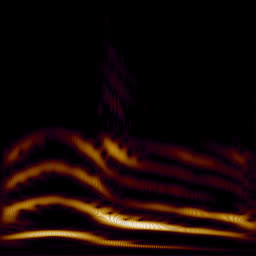
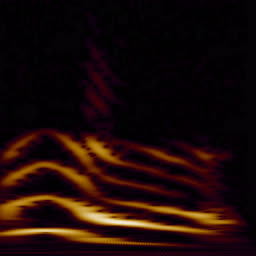
CWT markers

Changed region(s): [[0.0, 0.5, 1.0, 1.0], [0.3125, 0.1875, 0.5, 0.4688]]

diff --git a/xcorr/index.js b/xcorr/index.js
@@ -1,0 +1,186 @@
+let args = new URLSearchParams(location.search.slice(1));
+let arg_ss = +args.get('ss') || 0; // similar to ffmpeg
+let arg_to = +args.get('to') || 0; // similar to ffmpeg
+let arg_sr = +args.get('sr') || 12;
+
+let sampleRate = arg_sr * 1024;
+let iframe, iframe_reqs = {}, iframe_tx_id = 0;
+
+function dcheck(x) {
+  if (x) return;
+  debugger;
+  throw new Error('DCHECK failed: ' + x);
+}
+
+let mix = (a, b, x) => a * (1 - x) + b * x;
+let sleep = dt => new Promise(resolve => setTimeout(resolve, dt));
+
+function init() {
+  iframe = document.querySelector('iframe');
+  let canvas = document.querySelector('canvas');
+
+  canvas.onclick = async () => {
+    let file = await selectAudioFile();
+    document.title = file.name;
+    console.log('decoding audio at', sampleRate, 'Hz');
+    let audio = await decodeAudioFile(file);
+    console.log('audio:', audio.length, 'samples');
+
+    let fft_size = canvas.height;
+    let num_frames = canvas.width;
+
+    console.log('Computing FFT image...');
+    let fft_data = await computeFFT(audio, fft_size, num_frames);
+    drawFFT(canvas, fft_data, { log_scale: 3 });
+    await sleep(0);
+
+    console.log('Computing xcorr FFT image...');
+    let xcorr_data = await computeXCorr(fft_data, fft_size, num_frames);
+    drawFFT(canvas, xcorr_data, { log_scale: 3 });
+
+    console.log('Done');
+  };
+
+  // canvas.onmousemove = e =>
+  //   document.title = (e.clientX / canvas.clientWidth * canvas.width | 0) +
+  //   ':' + ((1 - e.clientY / canvas.clientHeight) * canvas.height | 0);
+}
+
+async function computeXCorr(fft_data, fft_size, num_frames,
+  { progress_dt = 1000 } = {}) {
+
+  dcheck(fft_data.length == fft_size * num_frames);
+  let xcorr_data = new Float32Array(num_frames ** 2);
+  let ts = Date.now();
+
+  for (let t1 = 0; t1 < num_frames; t1++) {
+    for (let t2 = 0; t2 < num_frames; t2++) {
+      let f1 = fft_data.subarray(t1 * fft_size, (t1 + 1) * fft_size);
+      let f2 = fft_data.subarray(t2 * fft_size, (t2 + 1) * fft_size);
+      dcheck(f1.length == fft_size && f2.length == fft_size);
+      let sum = f1.reduce((s, _, i) => s + (f1[i] * f2[i]) ** 0.5, 0);
+      xcorr_data[t1 * num_frames + t2] = sum;
+    }
+
+    if (progress_dt > 0 && Date.now() > ts + progress_dt) {
+      console.log('Progress:', t1 / num_frames * 100 | 0, '%');
+      ts = Date.now();
+      await sleep(0);
+    }
+  }
+
+  return xcorr_data;
+}
+
+function drawFFT(canvas, fft, { log_scale = 0 } = {}) {
+  let h = canvas.height;
+  let w = canvas.width;
+  let ctx = canvas.getContext('2d');
+  let img = ctx.getImageData(0, 0, w, h);
+  let max = fft.reduce((s, x) => Math.max(s, Math.abs(x)), 0);
+
+  if (fft.length != w * h)
+    throw new Error('Invalid image size');
+
+  for (let y = 0; y < h; y++) {
+    for (let x = 0; x < w; x++) {
+      let d = img.data;
+      let i = (y * w + x) * 4;
+      let a = fft[x * h + h - 1 - y] / max;
+      let s = log_scale > 0 ?
+        1 + Math.log10(Math.abs(a)) / log_scale : Math.abs(a);
+      d[i + 0] = (1 - s) * 256;
+      d[i + 1] = (1 - s) * 256;
+      d[i + 2] = (1 - s) * 256;
+      d[i + 3] = 255;
+    }
+  }
+
+  ctx.putImageData(img, 0, 0);
+}
+
+async function computeFFT(audio, fft_size, num_frames) {
+  let fft_data = new Float32Array(num_frames * fft_size);
+
+  await aggregateFFT(audio, fft_size, num_frames, (fft_resp, t) => {
+    for (let k = 0; k < fft_size; k++)
+      fft_data[t * fft_size + k] = fft_resp.abs[k] ** 2;
+  });
+
+  return fft_data;
+}
+
+async function aggregateFFT(audio, fft_size, num_frames, fn) {
+  console.log('fft frame:', fft_size, 'bins;',
+    sampleRate / fft_size, 'Hz/bin',
+    num_frames, 'frames');
+
+  let frame = new Float32Array(fft_size);
+  let frame_step = audio.length / num_frames | 0;
+
+  for (let i = 0; i < num_frames; i++) {
+    frame.fill(0);
+    frame.set(
+      audio.subarray(
+        i * frame_step,
+        Math.min(audio.length, i * frame_step + frame.length)));
+    for (let x = 0; x < frame.length; x++)
+      frame[x] *= Math.sin(x / frame.length * Math.PI) ** 2;
+    let fft_resp = await requestFFT(frame);
+    fn(fft_resp, i);
+  }
+}
+
+function requestFFT(data) {
+  let tx = iframe_tx_id++;
+  iframe.contentWindow.postMessage(
+    { tx, fn: 'fft', arg: { re: data } }, '*');
+  return new Promise((resolve, reject) => {
+    iframe_reqs[tx] = { resolve, reject };
+  });
+}
+
+async function selectAudioFile() {
+  let input = document.createElement('input');
+  input.type = 'file';
+  input.accept = 'audio/mpeg; audio/wav; audio/webm';
+  input.click();
+
+  let file = await new Promise((resolve, reject) => {
+    input.onchange = () => {
+      let files = input.files || [];
+      resolve(files[0] || null);
+    };
+  });
+
+  return file;
+}
+
+async function decodeAudioFile(file) {
+  let encodedAudio = await file.arrayBuffer();
+  let audioCtx = new AudioContext({ sampleRate });
+  let audioBuffer = await audioCtx.decodeAudioData(encodedAudio);
+  let channel_data = audioBuffer.getChannelData(0);
+
+  console.log(`Copying audio from ${arg_ss}s to ${arg_to}s`);
+  let frame_ss = arg_ss * sampleRate | 0;
+  let frame_to = arg_to * sampleRate | 0;
+
+  frame_to = frame_to || channel_data.length;
+
+  return new Float32Array(channel_data.slice(frame_ss, frame_to));
+}
+
+window.onload = () => init();
+
+window.onmessage = (event) => {
+  let resp = event.data;
+  let tx = resp.tx;
+  let p = iframe_reqs[tx];
+  if (resp.err) {
+    p.reject(resp.err);
+  } else {
+    p.resolve(resp.res);
+  }
+  delete iframe_reqs[tx];
+};

diff --git a/cwt/index.js b/cwt/index.js
@@ -27,6 +27,8 @@ const DEFAULT_CONFIG = `
   const int FB_H = 256;
   const int IMG_W = 1024;
   const int IMG_H = 1024;
+  const int FREQ_MARKERS = 10;
+  const int TIME_MARKERS = 10;
   const float PI = radians(180.0);
 
   vec2 wavelet(float ts, float freq_hz) {
@@ -66,7 +68,9 @@ const FB_W = conf.get('FB_W', 1, 4096);
 const FB_H = conf.get('FB_H', 1, 4096);
 const IMG_W = conf.get('IMG_W', 1, 4096);
 const IMG_H = conf.get('IMG_H', 1, 4096);
-const MAX_WAVEFORM_LEN = FB_W * FB_H; // FFT wraps around
+const FREQ_MARKERS = conf.get('FREQ_MARKERS', 0, 100);
+const TIME_MARKERS = conf.get('TIME_MARKERS', 0, 100);
+const MAX_WAVEFORM_LEN = FB_W * FB_H;
 const WAVELET_SHADER = conf.get();
 
 const $ = s => document.querySelector(s);
@@ -117,9 +121,12 @@ function updateConfig() {
   location.search = '?conf=' + encodeURIComponent(textarea.value);
 }
 
-async function initGPU() {
+async function initRenderer() {
   if (audio_ctx) return;
   audio_ctx = new AudioContext({ sampleRate: SAMPLE_RATE });
+
+  addFreqMarkers();
+  addTimeMarkers();
 
   canvas.width = IMG_W;
   canvas.height = IMG_H;
@@ -243,9 +250,11 @@ async function renderSpectrogram() {
   btn_render.style.display = 'none';
   btn_config.style.display = 'none';
   btn_abort.style.display = '';
-  await initGPU();
 
   let file = await openAudioFile();
+
+  await initRenderer();
+
   let buffer = await file.arrayBuffer();
   let waveform = await decodeAudioData(buffer);
 
@@ -303,6 +312,33 @@ async function renderSpectrogram() {
   btn_render.style.display = '';
   btn_config.style.display = '';
   btn_abort.style.display = 'none';
+}
+
+function addFreqMarkers(count = FREQ_MARKERS) {
+  for (let i = 1; i < count; i++) {
+    let freq_hz = mix(FREQ_MIN, FREQ_MAX, i / count);
+    let el = document.createElement('div');
+    el.className = 'mark-v';
+    el.style.top = ((1 - i / count) * 100).toFixed(1) + '%';
+    el.style.left = '0';
+    el.textContent = freq_hz.toFixed(0) + 'Hz';
+    document.body.appendChild(el);
+  }
+}
+
+function addTimeMarkers(count = TIME_MARKERS) {
+  let ts_min = TIME_MIN;
+  let ts_max = Math.min(TIME_MAX, ts_min + MAX_WAVEFORM_LEN / SAMPLE_RATE);
+
+  for (let i = 1; i < count; i++) {
+    let time_sec = mix(ts_min, ts_max, i / count);
+    let el = document.createElement('div');
+    el.className = 'mark-h';
+    el.style.left = ((i / count) * 100).toFixed(1) + '%';
+    el.style.bottom = '0';
+    el.textContent = time_sec.toFixed(2) + 's';
+    document.body.appendChild(el);
+  }
 }
 
 async function openAudioFile() {

diff --git a/glsl/acf-visualizer.js b/glsl/acf-visualizer.js
@@ -210,7 +210,7 @@ class GpuACF {
 
         const float N = float(${fft_size});
         const float SR = float(${vargs.SAMPLE_RATE});
-        const float A0 = float(${vargs.A4_FREQ / 2 ** 4});
+        const float RED_HZ = float(${vargs.A4_FREQ * 2 ** (4 / 12)});
 
         ${shaderUtils}
 
@@ -233,8 +233,8 @@ class GpuACF {
         void main() {
           float f = vTex.y * N - 0.5;
           float freq_hz = SR / N * (${!!vargs.USE_DCT} ? 0.5 * f : min(f, N - f));
-          float pitch = fract(log2(freq_hz / A0));
-          float val = hann_step(freq_hz / A0, 0.0, float(${vargs.ACF_MUTE_RANGE}));
+          float pitch = fract(log2(freq_hz / RED_HZ));
+          float val = hann_step(freq_hz / RED_HZ, 0.0, float(${vargs.ACF_MUTE_RANGE}));
           vec3 rgb = hann_hsv2rgb(vec3(pitch, 1.0, val));
 
           v_FragColor = texture(uFFT, vTex).x * vec4(rgb, 0.0);

diff --git a/cwt/styles.css b/cwt/styles.css
@@ -4,6 +4,7 @@ html, body {
   padding: 0;
   margin: 0;
   background: #010101;
+  font-family: monospace;
 }
 
 body {
@@ -72,6 +73,26 @@ button#update {
   position: fixed;
   right: 0;
   bottom: 0;
+}
+
+.mark-v {
+  position: fixed;
+  z-index: 1;
+  border-top: 1px solid #080;
+  color: #080;
+  padding-top: 0.5em;
+  padding-left: 0.5em;
+  font-size: 0.75rem;
+}
+
+.mark-h {
+  position: fixed;
+  z-index: 1;
+  border-left: 1px solid #080;
+  color: #080;
+  padding-left: 0.5em;
+  padding-bottom: 0.5em;
+  font-size: 0.75rem;
 }
 
 #error:not(:empty) {

diff --git a/xcorr/index.html b/xcorr/index.html
@@ -1,0 +1,9 @@
+<body style="margin:0">
+  <canvas width="1024"
+          height="1024"
+          style="max-height:100vh"></canvas>
+  <iframe src="https://soundshader.github.io/fft"
+          style="display:none"></iframe>
+  <script src="index.js"
+          async></script>
+</body>
